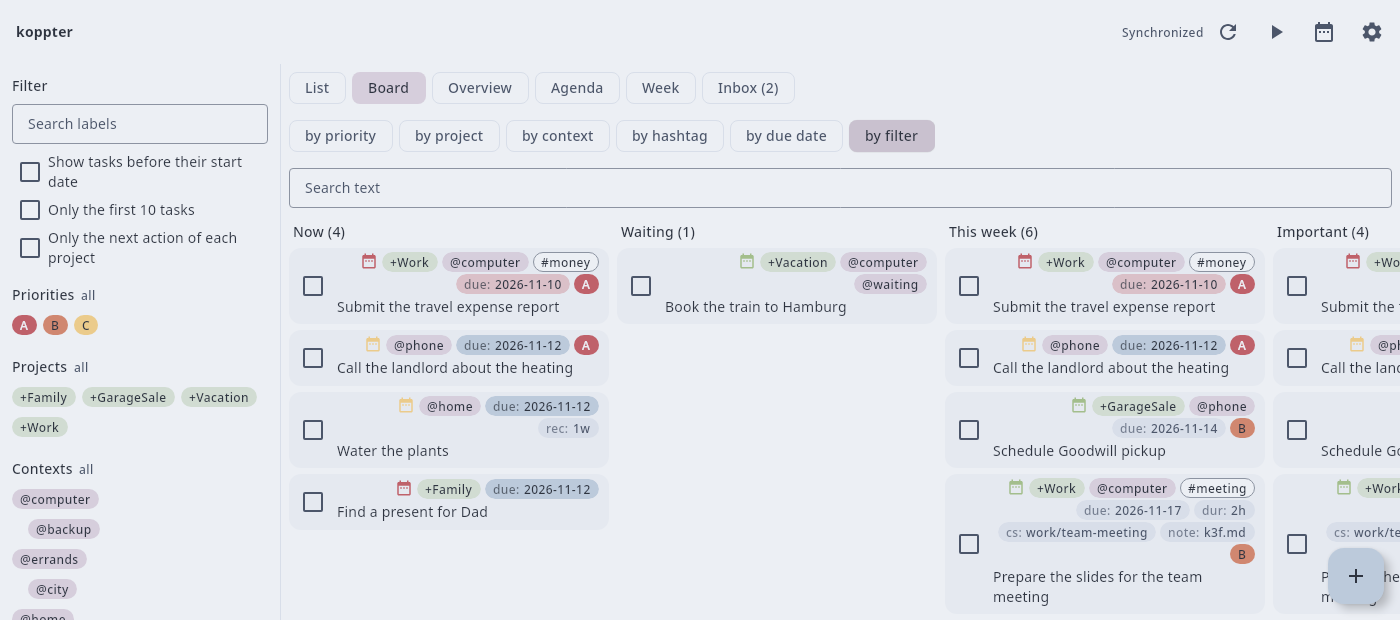
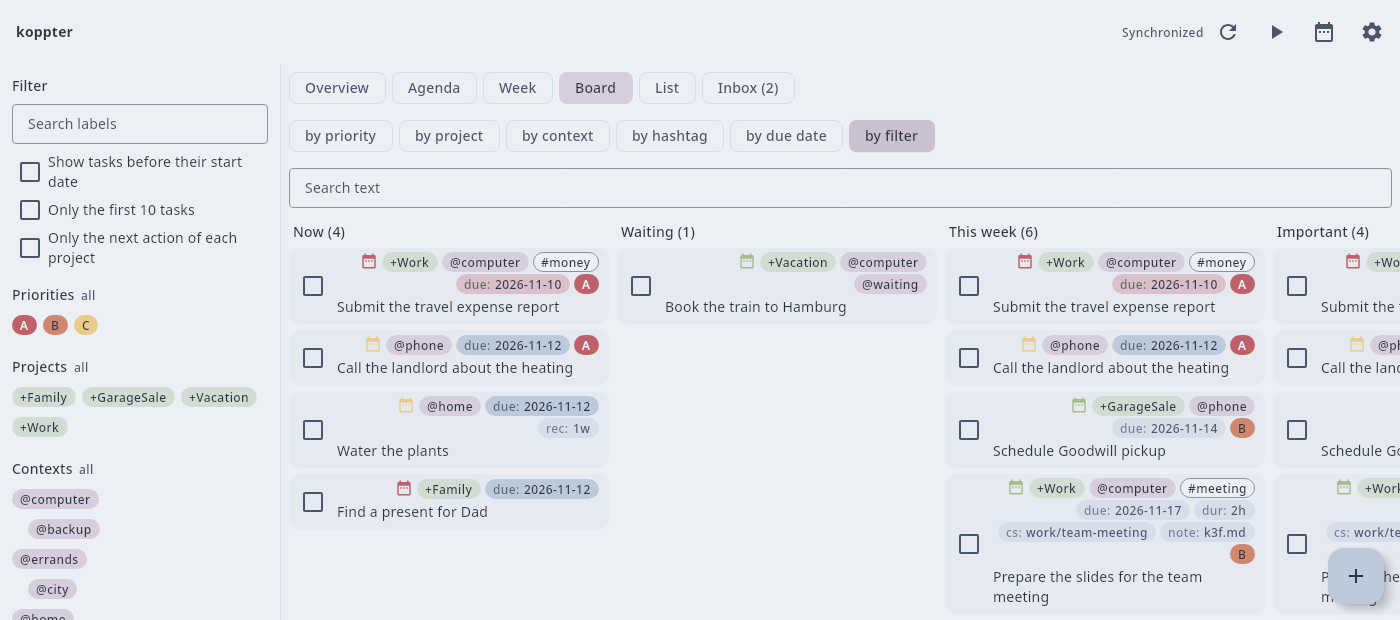
Order the views from overview to inbox and complete tasks in overview and inbox
The switches now run Overview, Agenda, Week, Board, List, Inbox, and Ctrl+1 to Ctrl+6 follow them. The agenda always shows tomorrow and the day after, and the tasks of an overview tile and of the inbox can be checked off where they are shown.

Changed region(s): [[0.215, 0.0919, 0.4914, 0.1839]]

diff --git a/app/src/commonMain/kotlin/io/github/koppor/koppter/ui/Agenda.kt b/app/src/commonMain/kotlin/io/github/koppor/koppter/ui/Agenda.kt
@@ -37,6 +37,7 @@ import androidx.compose.material.icons.Icons
 import androidx.compose.material.icons.automirrored.filled.KeyboardArrowLeft
 import androidx.compose.material.icons.automirrored.filled.KeyboardArrowRight
 import androidx.compose.material3.Card
+import androidx.compose.material3.Checkbox
 import androidx.compose.material3.HorizontalDivider
 import androidx.compose.material3.Icon
 import androidx.compose.material3.IconButton
@@ -70,6 +71,7 @@ private const val NO_PLAN = "Nothing is planned yet. Plan gives the open tasks t
 
 /**
  * What is up today and on the six days after it: the blocks of the plan by day, each with its task,
+ * today and the two days after it also without blocks,
  * and for today the tasks that are due but have no block today.
  */
 // [impl->dsn~agenda~1]
@@ -90,7 +92,7 @@ fun Agenda(
         for (offset in 0..6) {
             val day = today.plus(DatePeriod(days = offset))
             val ofDay = blocks.orEmpty().filter { it.date == day }
-            if (ofDay.isEmpty() && offset > 0) continue
+            if (ofDay.isEmpty() && offset > 2) continue
             Text(
                 listOfNotNull("Today".takeIf { offset == 0 }, "Tomorrow".takeIf { offset == 1 }, CalendarTxt.dayText(day)).joinToString(" · "),
                 style = MaterialTheme.typography.titleMedium,
@@ -228,7 +230,7 @@ internal fun matchingContexts(contexts: List<String>, typed: String): List<Strin
 // [impl->dsn~inbox~1]
 @OptIn(ExperimentalLayoutApi::class)
 @Composable
-fun Inbox(entries: List<Entry>, contexts: List<String>, onAssign: (Entry, String) -> Unit, onOpen: (Entry) -> Unit) {
+fun Inbox(entries: List<Entry>, contexts: List<String>, onAssign: (Entry, String) -> Unit, onToggle: (Entry) -> Unit, onOpen: (Entry) -> Unit) {
     var typed by remember { mutableStateOf("") }
     var mark by remember { mutableStateOf(0) }
     // A task that got its context leaves the list, so the mark is then on the next one.
@@ -271,7 +273,9 @@ fun Inbox(entries: List<Entry>, contexts: List<String>, onAssign: (Entry, String
             ) {
                 Column(Modifier.padding(horizontal = 12.dp, vertical = 8.dp), verticalArrangement = Arrangement.spacedBy(4.dp)) {
                     // The hashtags tell where a task comes from, such as #outlook; the task has no context and no project to show here.
-                    FlowRow(horizontalArrangement = Arrangement.spacedBy(6.dp), verticalArrangement = Arrangement.Center) {
+                    FlowRow(horizontalArrangement = Arrangement.spacedBy(6.dp), verticalArrangement = Arrangement.Center, itemVerticalAlignment = Alignment.CenterVertically) {
+                        // A task that is done needs no context.
+                        Checkbox(checked = entry.task.completed, onCheckedChange = { onToggle(entry) }, modifier = Modifier.testTag("task-done"))
                         Text(entry.task.description, style = MaterialTheme.typography.bodyLarge, modifier = Modifier.padding(end = 4.dp))
                         entry.task.hashtags.forEach { HashtagLabel(it, Modifier.testTag("inbox-hashtag-$it")) }
                     }

diff --git a/app/src/desktopTest/kotlin/io/github/koppor/koppter/ui/AppTest.kt b/app/src/desktopTest/kotlin/io/github/koppor/koppter/ui/AppTest.kt
@@ -1395,6 +1395,10 @@ class AppTest {
         onNodeWithText("Sweep the floor").performClick()
         onNodeWithTag("edit-dialog").assertExists()
         onNodeWithTag("edit-cancel").performScrollTo().performClick()
+        // A task is completed where it is shown.
+        onAllNodesWithTag("task-done")[1].performClick()
+        assertEquals(true, storage.text.lines().any { it.startsWith("x ") && "Water the plants" in it })
+        onAllNodesWithTag("overview-task").assertCountEquals(1)
         onNodeWithTag("overview-back").performClick()
         onNodeWithTag("overview-phone").assertExists()
 
@@ -1533,8 +1537,9 @@ class AppTest {
 
         onNodeWithTag("agenda-day-2026-11-12").assertTextEquals("Today · Thu 2026-11-12")
         onNodeWithTag("agenda-day-2026-11-13").assertTextEquals("Tomorrow · Fri 2026-11-13")
-        // A day without a block is left out, as are the days after the week.
-        onNodeWithTag("agenda-day-2026-11-14").assertDoesNotExist()
+        // The day after tomorrow is shown without a block; a later day without a block is left out, as are the days after the week.
+        onNodeWithTag("agenda-day-2026-11-14").assertExists()
+        onNodeWithTag("agenda-day-2026-11-15").assertDoesNotExist()
         onAllNodesWithTag("agenda-block").assertCountEquals(3)
         // A block whose task is gone still tells what was planned.
         onNodeWithText("A task that is gone").assertExists()
@@ -1608,6 +1613,18 @@ class AppTest {
         onNodeWithText("Every task has a context.").assertExists()
     }
 
+    // [utest->dsn~inbox~1]
+    @Test
+    fun theInboxCompletesATask() = runComposeUiTest {
+        storage.text += "Sweep the floor\n"
+        start()
+        onNodeWithTag("inbox-switch").assertTextEquals("Inbox (2)").performClick()
+        val done = storage.text.lines().count { it.startsWith("x ") }
+        onAllNodesWithTag("task-done")[0].performClick()
+        assertEquals(done + 1, storage.text.lines().count { it.startsWith("x ") })
+        onNodeWithTag("inbox-switch").assertTextEquals("Inbox (1)")
+    }
+
     // [utest->dsn~unsaved-changes~1]
     @Test
     fun escAsksBeforeChangesAreLost() = runComposeUiTest {
@@ -1651,13 +1668,13 @@ class AppTest {
             withKeysDown(listOfNotNull(Key.CtrlLeft, Key.ShiftLeft.takeIf { shift })) { pressKey(key) }
         }
 
-        ctrl(Key.Four)
+        ctrl(Key.Two)
         onNodeWithTag("agenda").assertExists()
         ctrl(Key.C, shift = true)
         onNodeWithTag("week").assertExists()
         ctrl(Key.Six)
         onNodeWithTag("inbox").assertExists()
-        ctrl(Key.One)
+        ctrl(Key.Five)
         onNodeWithTag("inbox").assertDoesNotExist()
 
         ctrl(Key.F, shift = true)

diff --git a/app/src/commonMain/kotlin/io/github/koppor/koppter/ui/App.kt b/app/src/commonMain/kotlin/io/github/koppor/koppter/ui/App.kt
@@ -392,14 +392,14 @@ private fun MainScreen(
                         if (controller.view == View.OVERVIEW) {
                             // An opened tile belongs to the attribute that was chosen: another one starts with the tiles.
                             androidx.compose.runtime.key(controller.overviewKey) {
-                                Overview(overviewStates(controller.visible, controller.today(), controller.overviewKey, controller.file.entries), controller.today(), open, emptyText)
+                                Overview(overviewStates(controller.visible, controller.today(), controller.overviewKey, controller.file.entries), controller.today(), controller::toggle, open, emptyText)
                             }
                         } else if (controller.view == View.AGENDA) {
                             Agenda(controller.planBlocks, controller.dueUnplanned, controller::entryOf, controller.today(), controller::toggle, open, controller::worked)
                         } else if (controller.view == View.WEEK) {
                             Week(controller.planBlocks, controller::entryOf, controller::planSuffix, controller.today(), open)
                         } else if (controller.view == View.INBOX) {
-                            Inbox(controller.inbox, controller.contexts, controller::assignContext, open)
+                            Inbox(controller.inbox, controller.contexts, controller::assignContext, controller::toggle, open)
                         } else if (controller.board) {
                             Board(
                                 controller.groups, controller.today(), controller::toggle, onOpen = { editing = Editing(it) },

diff --git a/app/src/commonMain/kotlin/io/github/koppor/koppter/ui/Overview.kt b/app/src/commonMain/kotlin/io/github/koppor/koppter/ui/Overview.kt
@@ -19,6 +19,7 @@ import androidx.compose.foundation.verticalScroll
 import androidx.compose.material.icons.Icons
 import androidx.compose.material.icons.automirrored.filled.ArrowBack
 import androidx.compose.material3.Card
+import androidx.compose.material3.Checkbox
 import androidx.compose.material3.Icon
 import androidx.compose.material3.IconButton
 import androidx.compose.material3.LinearProgressIndicator
@@ -55,7 +56,7 @@ private fun UrgencyState.color(): Color = when (this) {
 // [impl->dsn~overview~1]
 @OptIn(ExperimentalLayoutApi::class)
 @Composable
-fun Overview(states: List<OverviewState>, today: LocalDate, onOpen: (Entry) -> Unit, emptyText: String) {
+fun Overview(states: List<OverviewState>, today: LocalDate, onToggle: (Entry) -> Unit, onOpen: (Entry) -> Unit, emptyText: String) {
     var selected by remember { mutableStateOf<String?>(null) }
     var showing by remember { mutableStateOf(false) }
     val shown = states.firstOrNull { it.name == selected }.takeIf { showing }
@@ -112,6 +113,7 @@ fun Overview(states: List<OverviewState>, today: LocalDate, onOpen: (Entry) -> U
                     verticalAlignment = Alignment.CenterVertically,
                     horizontalArrangement = Arrangement.spacedBy(12.dp),
                 ) {
+                    Checkbox(checked = entry.task.completed, onCheckedChange = { onToggle(entry) }, modifier = Modifier.testTag("task-done"))
                     LinkedText(entry.task.description, Modifier.weight(1f))
                     if (urgency != null) {
                         Column(Modifier.width(150.dp), horizontalAlignment = Alignment.CenterHorizontally) {

diff --git a/app/src/commonMain/kotlin/io/github/koppor/koppter/ui/TodoController.kt b/app/src/commonMain/kotlin/io/github/koppor/koppter/ui/TodoController.kt
@@ -74,7 +74,8 @@ import kotlin.time.Duration.Companion.minutes
  */
 // ponytail: file access runs on the caller's thread; move it off the UI thread when a storage is slow (network).
 /** What the main screen shows of the tasks. */
-enum class View(val title: String) { LIST("List"), BOARD("Board"), OVERVIEW("Overview"), AGENDA("Agenda"), WEEK("Week"), INBOX("Inbox") }
+// From the views that show what is up to those that change the tasks.
+enum class View(val title: String) { OVERVIEW("Overview"), AGENDA("Agenda"), WEEK("Week"), BOARD("Board"), LIST("List"), INBOX("Inbox") }
 
 class TodoController(
     settings: Settings,

diff --git a/docs/requirements/extensions.md b/docs/requirements/extensions.md
@@ -494,7 +494,7 @@ Needs: impl, utest
 ### View options
 `dsn~view-options~1`
 
-A row of switches above the tasks selects the view: list, board, overview, agenda, week or inbox.
+A row of switches above the tasks selects the view: overview, agenda, week, board, list or inbox, from the views that show what is up to those that change the tasks.
 One of them is always selected.
 For the list and the board, a second row below it selects the attribute of the groups of the list, which a second click switches off, or of the columns of the board, for which the columns defined by filters are a choice as well.
 While the list has no groups, a text at the end of that row tells its order: by priority, then by due date.
@@ -598,7 +598,7 @@ Needs: impl, utest
 `overviewStates` groups the open tasks by their contexts of the outermost level, a context including the contexts below it, and sorts the tasks of each by urgency; the tasks without context form a group of their own.
 It groups by the projects of the outermost level or by the hashtags in the same way.
 The state of a group is that of its most urgent task: overdue, due today, or neither.
-`Overview` shows the groups of the visible tasks as tiles with a dot in the color of the state, and after a click on a tile the tasks of that group with a progress bar and the text of their urgency.
+`Overview` shows the groups of the visible tasks as tiles with a dot in the color of the state, and after a click on a tile the tasks of that group with a box that completes the task, a progress bar and the text of their urgency.
 The second row of the view options selects contexts, projects or hashtags; contexts are selected at the start, and another choice shows the tiles again.
 A switch above the tasks turns the overview on; it and the other views that replace the list exclude each other.
 
@@ -612,7 +612,7 @@ Needs: impl, utest
 `dsn~inbox~1`
 
 `TodoController.inbox` gives the visible open tasks without context.
-`Inbox` shows each of them with its hashtags next to its text and, after *Give it:*, the contexts of the file as labels with all their levels; a click on a label gives the task that context through `Task.edit`, and a click on the task opens the edit dialog.
+`Inbox` shows each of them with a box that completes it, and its hashtags next to its text and, after *Give it:*, the contexts of the file as labels with all their levels; a click on a label gives the task that context through `Task.edit`, and a click on the task opens the edit dialog.
 One task is marked, at first the first one.
 A field takes typed text: the marked task then shows the contexts that contain the text, those first of which a level starts with it.
 Enter gives the marked task the first of them, or the typed text as a new context if no context contains it; the arrow keys up and down move the mark.

diff --git a/docs/requirements/planning.md b/docs/requirements/planning.md
@@ -469,7 +469,7 @@ Needs: impl, utest
 `dsn~agenda~1`
 
 `CalendarTxt.blocks` reads the blocks of `calendar.txt`; `TodoController.entryOf` finds the open task of a block by its text.
-`Agenda` shows today and the six days after it, each day that has blocks with its blocks in the order of time; a block shows its task as in the list, or its text if the task is no longer open under that text.
+`Agenda` shows today and the two days after it, and of the four days after them each day that has blocks, each day with its blocks in the order of time; a block shows its task as in the list, or its text if the task is no longer open under that text.
 Below the blocks of today, it lists the open tasks that are due today or earlier and have no block today (`TodoController.dueUnplanned`).
 `Week` shows the seven days of a week from Monday as columns with the hours running down, at least from 08:00 to 18:00, and each block at its time; the hours share the height of the window, so that the whole week is seen without scrolling also on a phone that is held upright, and are at least 20 dp high; buttons move by a week, and a click on a block opens its task.
 Both views show what the file says and do not plan.

diff --git a/docs/requirements/ui.md b/docs/requirements/ui.md
@@ -763,7 +763,7 @@ Needs: impl
 `dsn~keyboard-shortcuts~1`
 
 The main screen is focusable and takes the focus whenever none of its elements has it and no dialog is open, so that keys always reach it; it handles the keys before its elements do.
-With Ctrl, or the command key: N opens the dialog for a new task, E searches as this key does in OneNote, F gives the focus to the text of the filter as this key searches in browsers and editors, and 1 to 6 show the list and the views in the order of their switches.
+With Ctrl, or the command key: N opens the dialog for a new task, E searches as this key does in OneNote, F gives the focus to the text of the filter as this key searches in browsers and editors, and 1 to 6 show the views in the order of their switches.
 The search shows the list with every task, the completed ones and those before their start date included: it resets the filter with its option for the first tasks and gives the focus to the text of the filter.
 The agenda and the week, which the filter does not apply to, give way to the list when the text of the filter gets the focus.
 Where that field lies in the drawer, the drawer opens first.

diff --git a/CHANGELOG.md b/CHANGELOG.md
@@ -14,6 +14,9 @@ and this project adheres to [Calendar Versioning](https://calver.org/) with the 
 
 ### Changed
 
+- The agenda shows tomorrow and the day after it also when nothing is planned on them.
+- The switches of the views are in the order *Overview*, *Agenda*, *Week*, *Board*, *List*, *Inbox*; Ctrl+1 to Ctrl+6 follow that order.
+- The tasks of a tile of the overview and the tasks of the inbox have a box that completes them.
 - Planning moves a task that would be done after its due date before the tasks with a higher priority, the one due first first; the agenda and the week show it at its earlier times. A low priority thus counts until the due date comes close.
 - The inbox shows the hashtags of a task next to its text and puts *Give it:* before the contexts to choose from, so that they no longer look like contexts of the task.
 - The empty fields *Name of the commits* and *Email address of the commits* in the settings show their default in gray, also while they do not have the focus; their titles stand above them.
